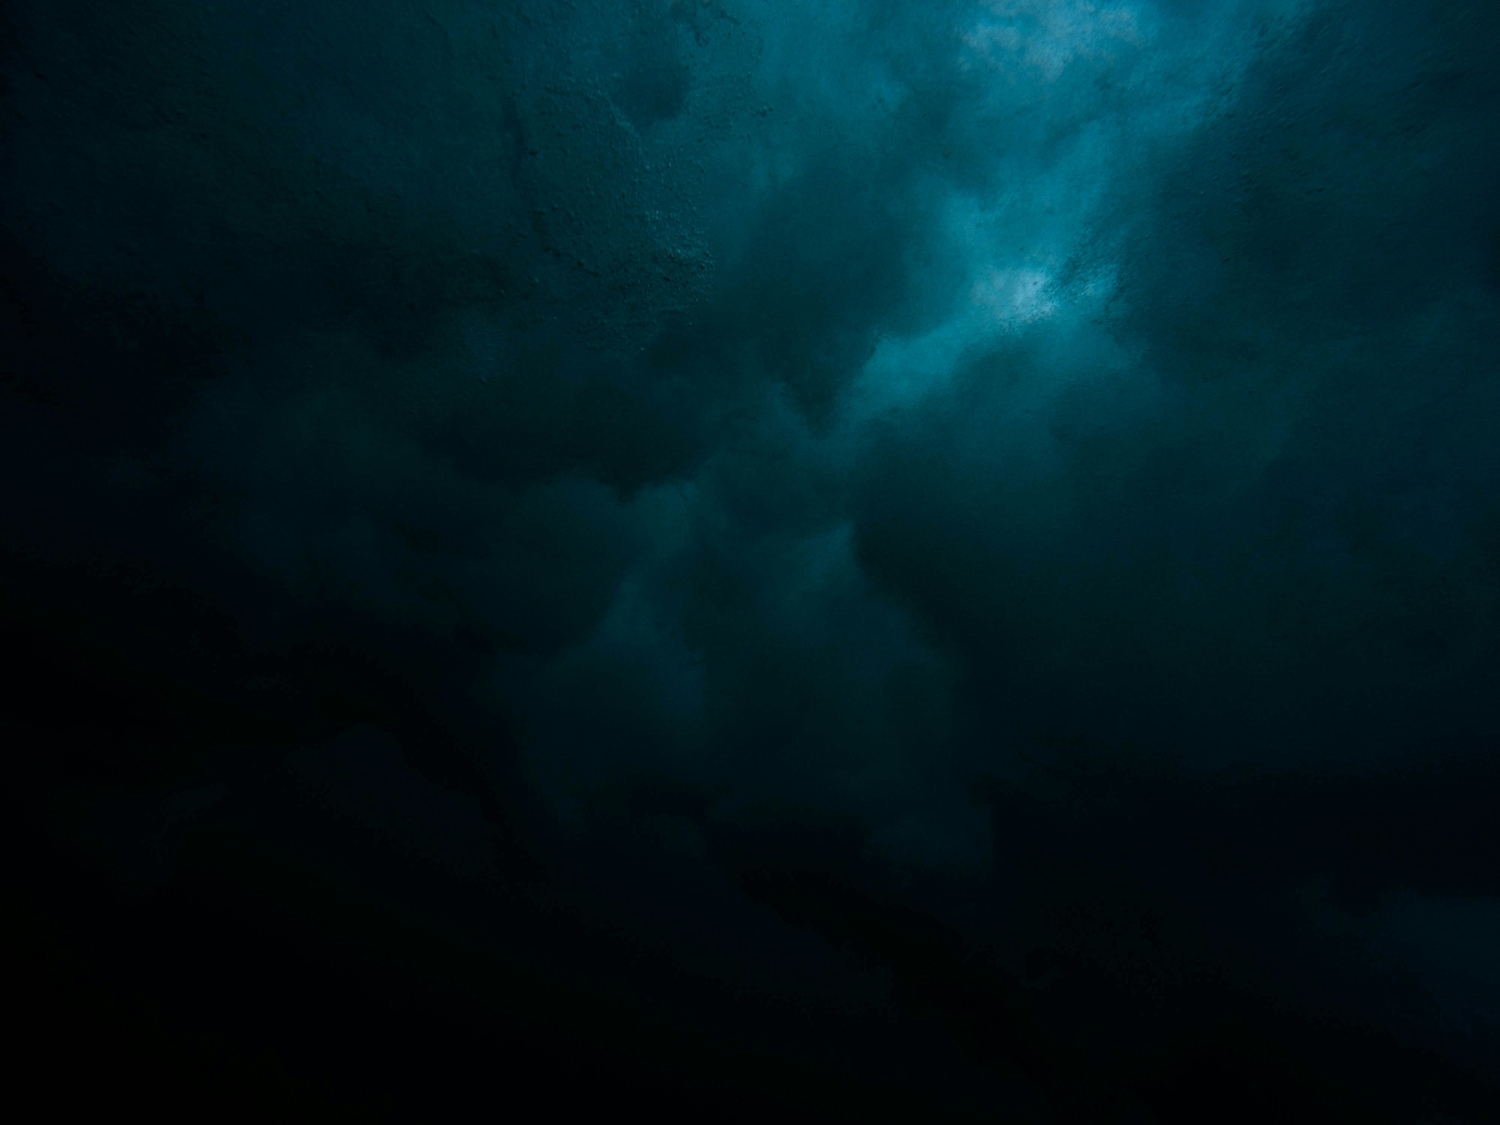
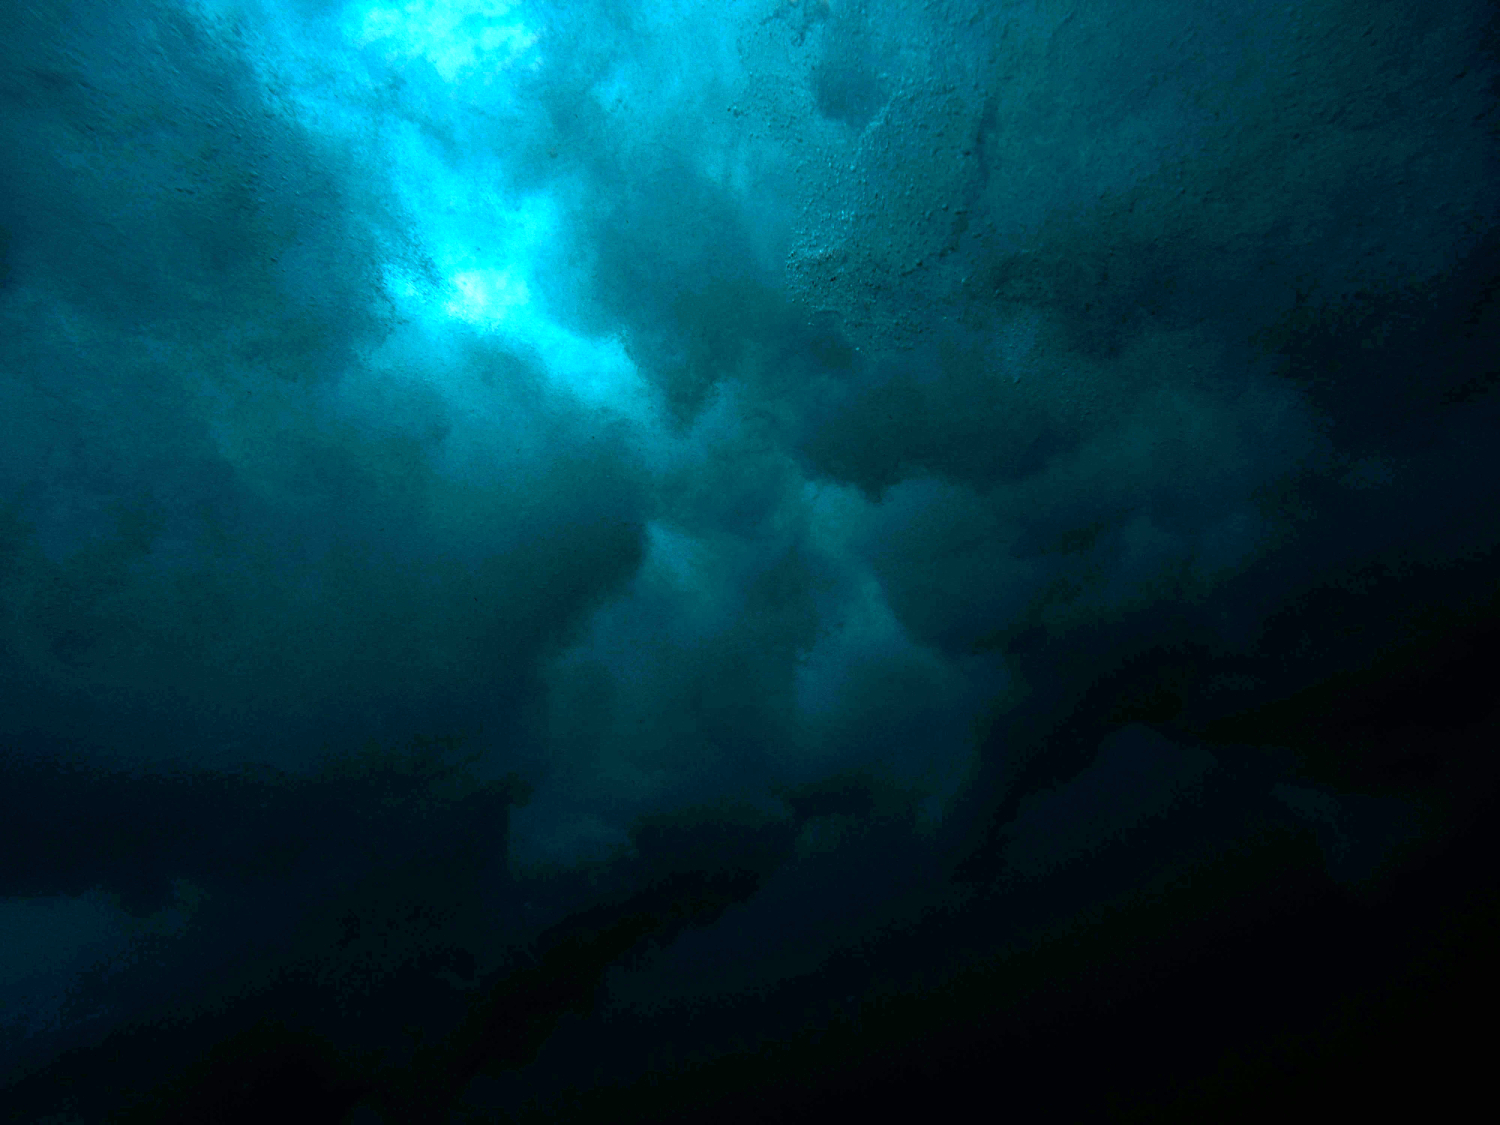
UI

diff --git a/style.css b/style.css
@@ -657,8 +657,8 @@ body {
    ============================================ */
 .card {
     background: var(--surface);
-    backdrop-filter: blur(22px);
-    -webkit-backdrop-filter: blur(22px);
+    backdrop-filter: blur(8px);
+    -webkit-backdrop-filter: blur(8px);
     border-radius: var(--radius-lg);
     padding: 28px;
     box-shadow: var(--shadow-card);